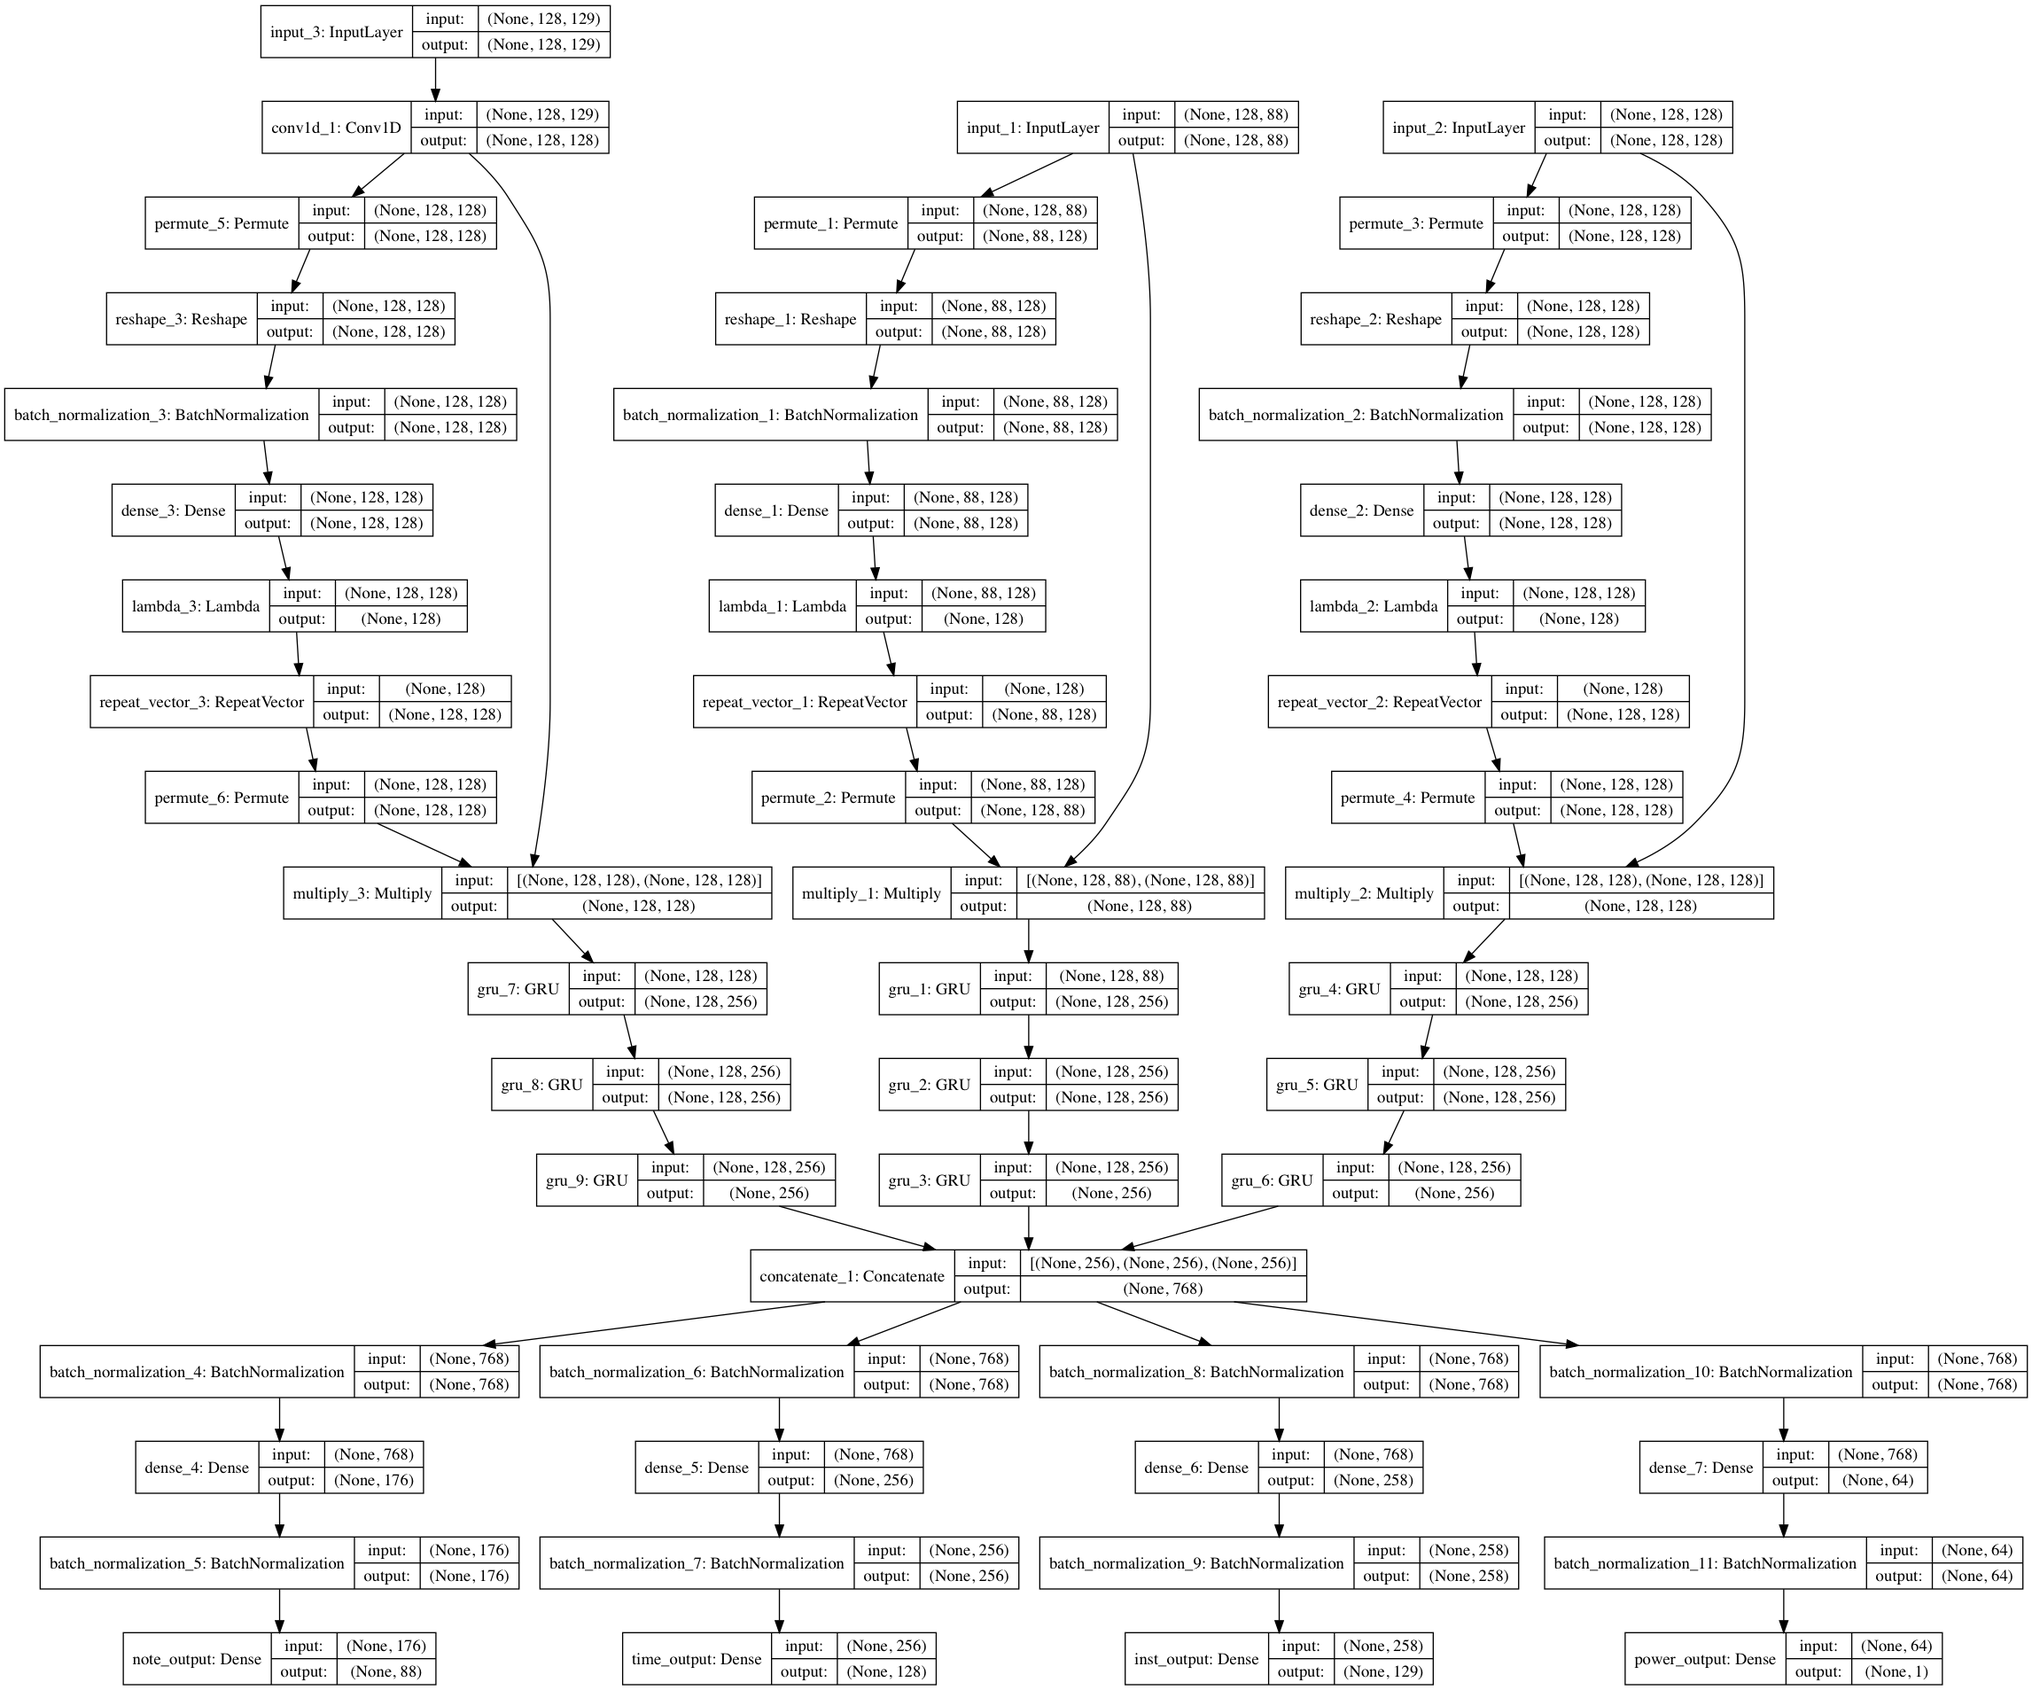
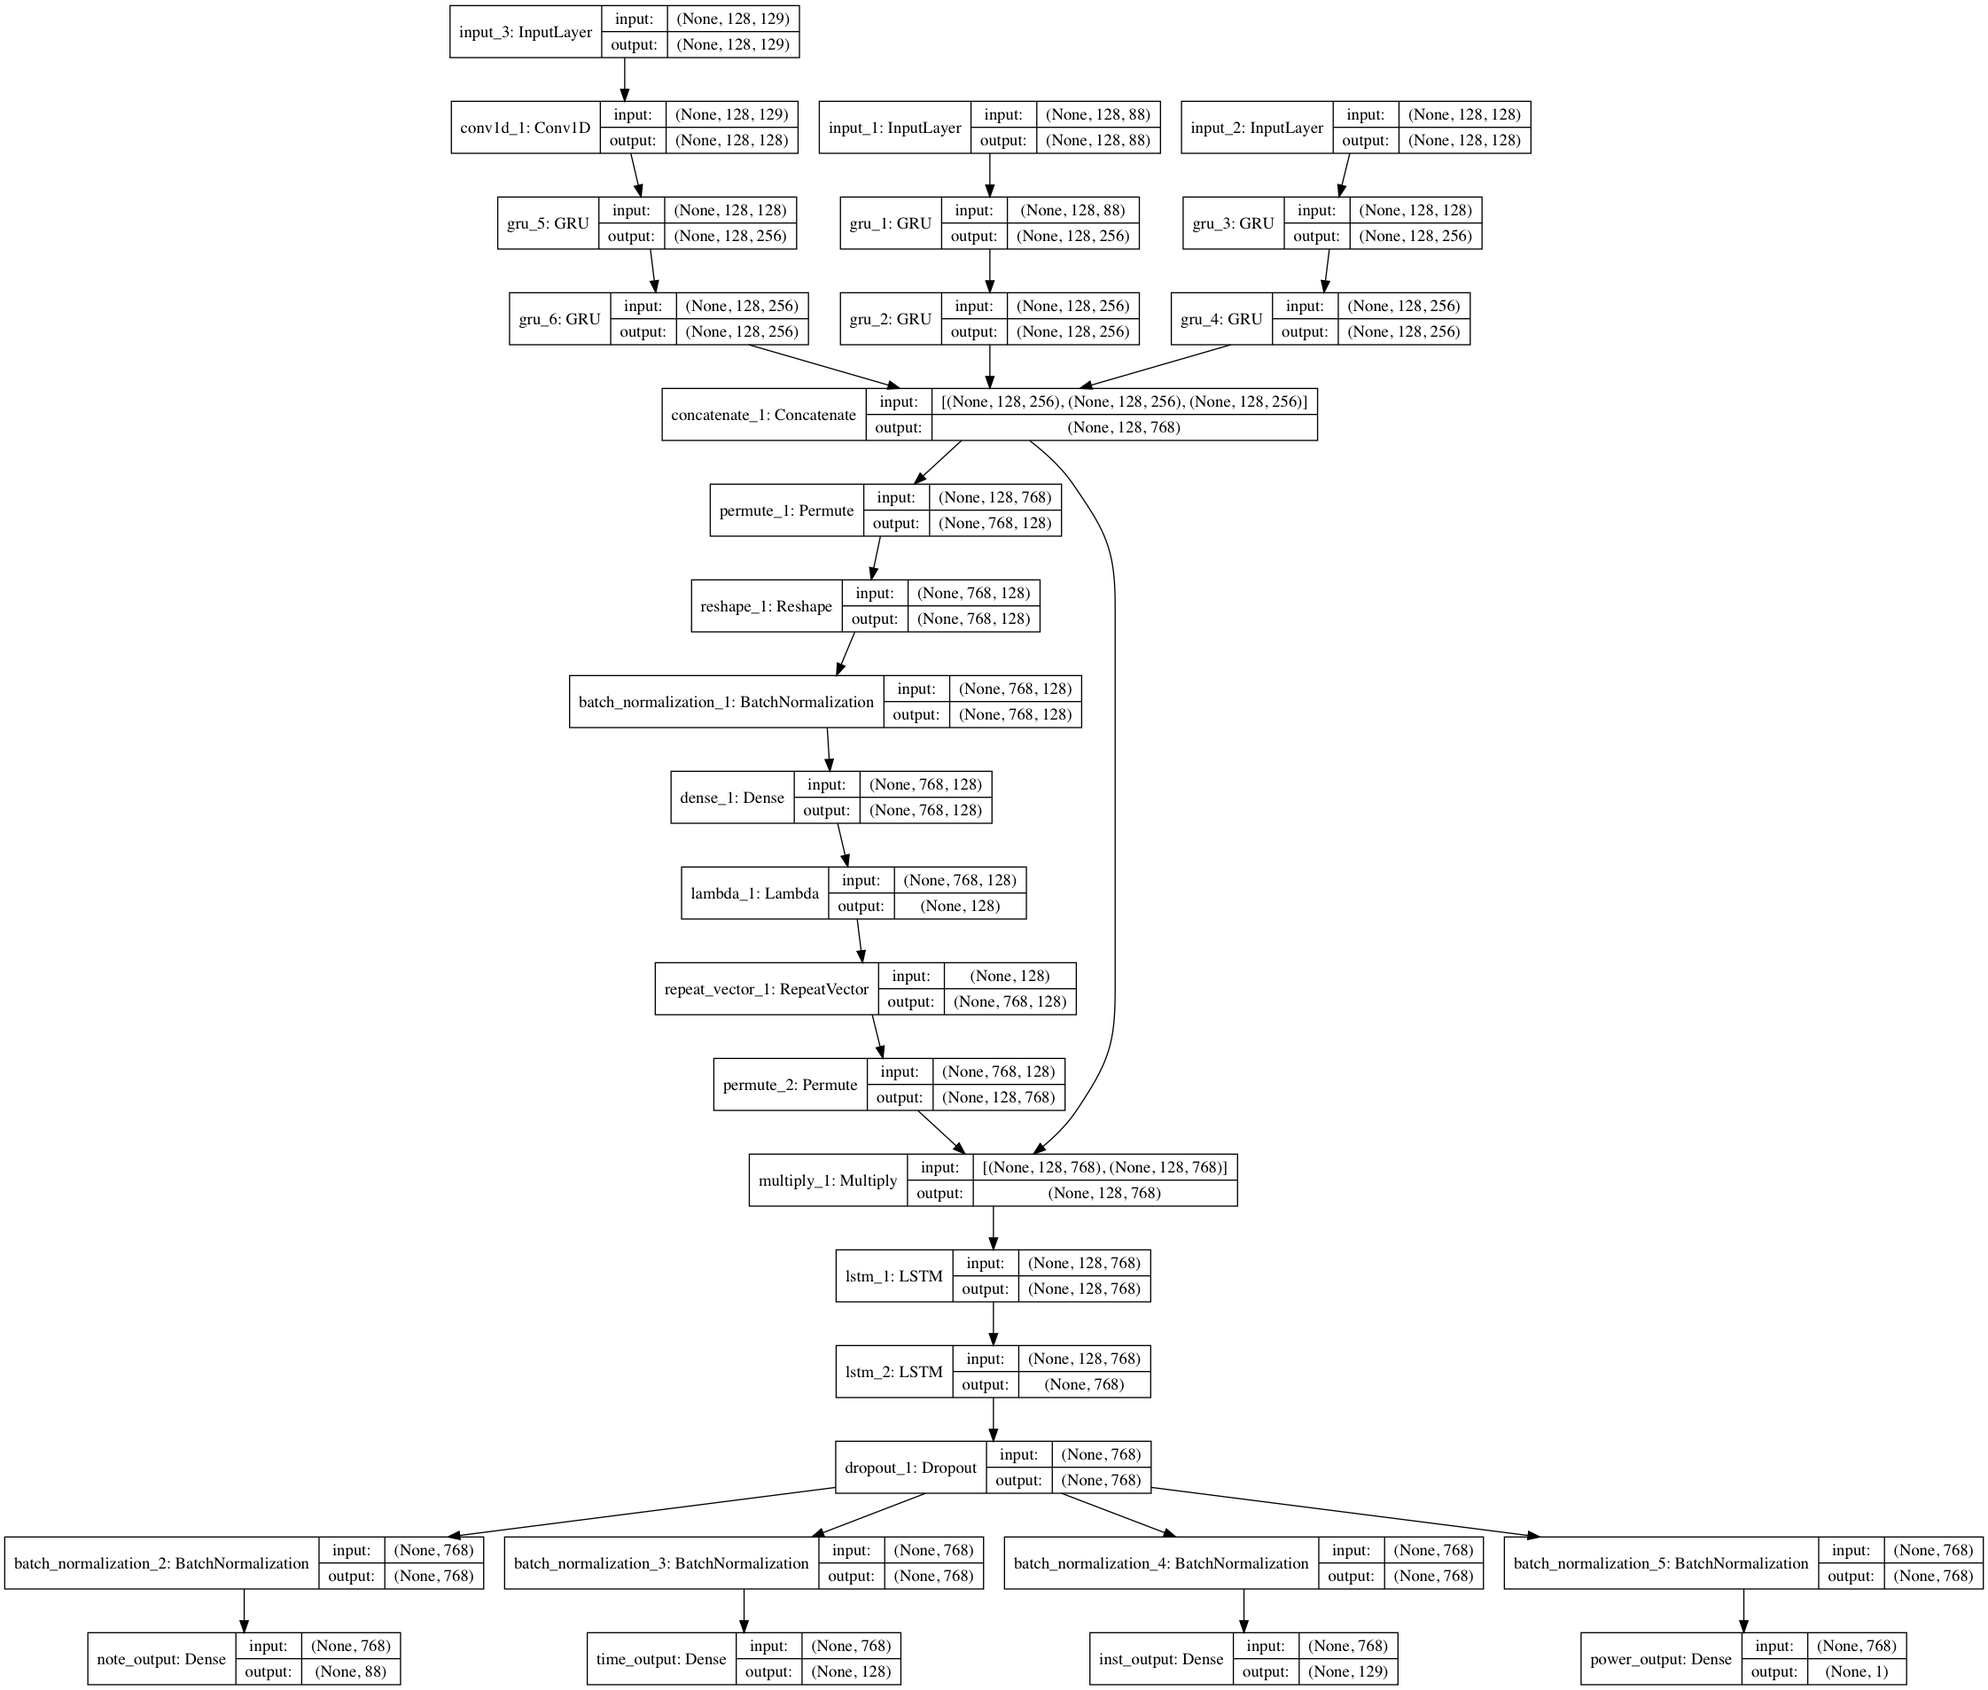
foo

diff --git a/multiple_instruments/train_dir.py b/multiple_instruments/train_dir.py
@@ -6,7 +6,7 @@ config.gpu_options.allow_growth = True
 session = tf.Session(config=config)
 from keras.models import Sequential, load_model, Model
 from keras.layers import Dense, Activation, Dropout, Input, Flatten, Conv1D
-from keras.layers import GRU, BatchNormalization, RepeatVector, TimeDistributed
+from keras.layers import LSTM, GRU, BatchNormalization, RepeatVector, TimeDistributed
 from keras.layers.merge import concatenate
 from keras.optimizers import RMSprop
 from keras.utils.io_utils import HDF5Matrix
@@ -36,7 +36,7 @@ hidden_delta=256
 hidden_note=256
 hidden_inst=256
 filter_size=128
-kernel_size=7 ## midi program changes are by groups
+kernel_size=3 ## midi program changes are by groups
 drop_rate=0.2 ## for powerful computer
 Normal=120.0
 defaultRes=256.0
@@ -225,47 +225,37 @@ def main():
     # network:
     with tf.device('/gpu:0'):
         noteInput  = Input(shape=(segLen, vecLen))
-        noteEncode = SoftAttentionBlock(noteInput, segLen, vecLen)
+        noteEncode = GRU(hidden_note, return_sequences=True, dropout=drop_rate)(noteInput)
         noteEncode = GRU(hidden_note, return_sequences=True, dropout=drop_rate)(noteEncode)
-        noteEncode = GRU(hidden_note, return_sequences=True, dropout=drop_rate)(noteEncode)
-        noteEncode = GRU(hidden_note, return_sequences=False, dropout=drop_rate)(noteEncode)
 
     with tf.device('/gpu:1'):
         deltaInput = Input(shape=(segLen, maxdelta))
-        deltaEncode = SoftAttentionBlock(deltaInput, segLen, maxdelta)
+        deltaEncode = GRU(hidden_delta, return_sequences=True, dropout=drop_rate)(deltaInput)
         deltaEncode = GRU(hidden_delta, return_sequences=True, dropout=drop_rate)(deltaEncode)
-        deltaEncode = GRU(hidden_delta, return_sequences=True, dropout=drop_rate)(deltaEncode)
-        deltaEncode = GRU(hidden_delta, return_sequences=False, dropout=drop_rate)(deltaEncode)
 
     with tf.device('/gpu:2'):
         instInput = Input(shape=(segLen, maxinst))
         instEncode   = Conv1D(filters=filter_size, kernel_size=kernel_size, padding='same', input_shape=(segLen, maxinst), activation = 'relu')(instInput)
-        instEncode   = SoftAttentionBlock(instEncode, segLen)
         instEncode   = GRU(hidden_inst, return_sequences=True, dropout=drop_rate)(instEncode)
         instEncode   = GRU(hidden_inst, return_sequences=True, dropout=drop_rate)(instEncode)
-        instEncode   = GRU(hidden_inst, return_sequences=False, dropout=drop_rate)(instEncode)
 
     with tf.device('/gpu:3'):
         codec = concatenate([noteEncode, deltaEncode, instEncode], axis=-1) ## return last state
+        codec = SoftAttentionBlock(codec, segLen, hidden_note+hidden_delta+hidden_inst, True)
+        codec = LSTM(hidden_note+hidden_delta+hidden_inst, return_sequences=True, dropout=drop_rate, activation='softsign')(codec)
+        codec = LSTM(hidden_note+hidden_delta+hidden_inst, return_sequences=False, dropout=drop_rate, activation='softsign')(codec)
+        codec = Dropout(drop_rate)(codec)
 
-        batchNormNote_0 = BatchNormalization()(codec)
-        fc_notes = Dense(vecLen*2, kernel_initializer='normal', activation='relu')(batchNormNote_0)
-        fc_notes = BatchNormalization()(fc_notes)
+        fc_notes = BatchNormalization()(codec)
         pred_notes = Dense(vecLen, kernel_initializer='normal', activation='softmax', name='note_output')(fc_notes) ## output PMF
 
-        batchNormDelta_0 = BatchNormalization()(codec)
-        fc_delta = Dense(maxdelta*2, kernel_initializer='normal', activation='relu')(batchNormDelta_0)
-        fc_delta = BatchNormalization()(fc_delta)
+        fc_delta = BatchNormalization()(codec)
         pred_delta = Dense(maxdelta, kernel_initializer='normal', activation='softmax', name='time_output')(fc_delta) ## output PMF
 
-        batchNormInst_0 = BatchNormalization()(codec)
-        fc_inst = Dense(maxinst*2, kernel_initializer='normal', activation='relu')(batchNormInst_0)
-        fc_inst = BatchNormalization()(fc_inst)
+        fc_inst = BatchNormalization()(codec)
         pred_inst = Dense(maxinst, kernel_initializer='normal', activation='softmax', name='inst_output')(fc_inst) ## output PMF
 
-        batchNormPower_0 = BatchNormalization()(codec)
-        fc_power = Dense(maxpower, kernel_initializer='normal', activation='relu')(batchNormPower_0)
-        fc_power = BatchNormalization()(fc_power)
+        fc_power = BatchNormalization()(codec)
         pred_power = Dense(1, kernel_initializer='normal', activation='relu', name='power_output')(fc_power) ## output regression >= 0
     aiComposer = Model([noteInput, deltaInput, instInput], [pred_notes, pred_delta, pred_inst, pred_power])
     checkPoint = ModelCheckpoint(filepath="weights-{epoch:04d}-{loss:.2f}-{val_loss:.2f}.h5", verbose=1, save_best_only=False, save_weights_only=True, period=3)

diff --git a/multiple_instruments/load.py b/multiple_instruments/load.py
@@ -6,7 +6,7 @@ config.gpu_options.allow_growth = True
 session = tf.Session(config=config)
 from keras.models import Sequential, load_model, Model
 from keras.layers import Dense, Activation, Dropout, Input, Flatten, Conv1D
-from keras.layers import GRU, BatchNormalization, RepeatVector, TimeDistributed
+from keras.layers import LSTM, GRU, BatchNormalization, RepeatVector, TimeDistributed
 from keras.layers.merge import concatenate
 from keras.optimizers import RMSprop
 from keras.utils.io_utils import HDF5Matrix
@@ -32,7 +32,7 @@ hidden_delta=256
 hidden_note=256
 hidden_inst=256
 filter_size=128
-kernel_size=7 ## midi program changes are by groups
+kernel_size=3 ## midi program changes are by groups
 drop_rate=0.2 ## for powerful computer
 
 K.set_floatx(compute_precision);
@@ -42,49 +42,40 @@ print('Build model...')
 # network:
 with tf.device('/gpu:0'):
     noteInput  = Input(shape=(segLen, vecLen))
-    noteEncode = SoftAttentionBlock(noteInput, segLen, vecLen)
+    noteEncode = GRU(hidden_note, return_sequences=True, dropout=drop_rate)(noteInput)
     noteEncode = GRU(hidden_note, return_sequences=True, dropout=drop_rate)(noteEncode)
-    noteEncode = GRU(hidden_note, return_sequences=True, dropout=drop_rate)(noteEncode)
-    noteEncode = GRU(hidden_note, return_sequences=False, dropout=drop_rate)(noteEncode)
 
 with tf.device('/gpu:1'):
     deltaInput = Input(shape=(segLen, maxdelta))
-    deltaEncode = SoftAttentionBlock(deltaInput, segLen, maxdelta)
+    deltaEncode = GRU(hidden_delta, return_sequences=True, dropout=drop_rate)(deltaInput)
     deltaEncode = GRU(hidden_delta, return_sequences=True, dropout=drop_rate)(deltaEncode)
-    deltaEncode = GRU(hidden_delta, return_sequences=True, dropout=drop_rate)(deltaEncode)
-    deltaEncode = GRU(hidden_delta, return_sequences=False, dropout=drop_rate)(deltaEncode)
 
 with tf.device('/gpu:2'):
     instInput = Input(shape=(segLen, maxinst))
     instEncode   = Conv1D(filters=filter_size, kernel_size=kernel_size, padding='same', input_shape=(segLen, maxinst), activation = 'relu')(instInput)
-    instEncode   = SoftAttentionBlock(instEncode, segLen)
     instEncode   = GRU(hidden_inst, return_sequences=True, dropout=drop_rate)(instEncode)
     instEncode   = GRU(hidden_inst, return_sequences=True, dropout=drop_rate)(instEncode)
-    instEncode   = GRU(hidden_inst, return_sequences=False, dropout=drop_rate)(instEncode)
 
 with tf.device('/gpu:3'):
     codec = concatenate([noteEncode, deltaEncode, instEncode], axis=-1) ## return last state
+    codec = SoftAttentionBlock(codec, segLen, hidden_note+hidden_delta+hidden_inst, True)
+    codec = LSTM(hidden_note+hidden_delta+hidden_inst, return_sequences=True, dropout=drop_rate, activation='softsign')(codec)
+    codec = LSTM(hidden_note+hidden_delta+hidden_inst, return_sequences=False, dropout=drop_rate, activation='softsign')(codec)
+    codec = Dropout(drop_rate)(codec)
 
-    batchNormNote_0 = BatchNormalization()(codec)
-    fc_notes = Dense(vecLen*2, kernel_initializer='normal', activation='relu')(batchNormNote_0)
-    fc_notes = BatchNormalization()(fc_notes)
+    fc_notes = BatchNormalization()(codec)
     pred_notes = Dense(vecLen, kernel_initializer='normal', activation='softmax', name='note_output')(fc_notes) ## output PMF
 
-    batchNormDelta_0 = BatchNormalization()(codec)
-    fc_delta = Dense(maxdelta*2, kernel_initializer='normal', activation='relu')(batchNormDelta_0)
-    fc_delta = BatchNormalization()(fc_delta)
+    fc_delta = BatchNormalization()(codec)
     pred_delta = Dense(maxdelta, kernel_initializer='normal', activation='softmax', name='time_output')(fc_delta) ## output PMF
 
-    batchNormInst_0 = BatchNormalization()(codec)
-    fc_inst = Dense(maxinst*2, kernel_initializer='normal', activation='relu')(batchNormInst_0)
-    fc_inst = BatchNormalization()(fc_inst)
+    fc_inst = BatchNormalization()(codec)
     pred_inst = Dense(maxinst, kernel_initializer='normal', activation='softmax', name='inst_output')(fc_inst) ## output PMF
 
-    batchNormPower_0 = BatchNormalization()(codec)
-    fc_power = Dense(maxpower, kernel_initializer='normal', activation='relu')(batchNormPower_0)
-    fc_power = BatchNormalization()(fc_power)
+    fc_power = BatchNormalization()(codec)
     pred_power = Dense(1, kernel_initializer='normal', activation='relu', name='power_output')(fc_power) ## output regression >= 0
 aiComposer = Model([noteInput, deltaInput, instInput], [pred_notes, pred_delta, pred_inst, pred_power])
 if ( os.path.isfile('./top_weight.h5')):  ## fine-tuning
     aiComposer.load_weights('./top_weight.h5')
 aiComposer.save('./multi.h5')
+

diff --git a/multiple_instruments/summary.py b/multiple_instruments/summary.py
@@ -6,7 +6,7 @@ config.gpu_options.allow_growth = True
 session = tf.Session(config=config)
 from keras.models import Sequential, load_model, Model
 from keras.layers import Dense, Activation, Dropout, Input, Flatten, Conv1D
-from keras.layers import GRU, BatchNormalization, RepeatVector, TimeDistributed
+from keras.layers import LSTM, GRU, BatchNormalization, RepeatVector, TimeDistributed
 from keras.layers.merge import concatenate
 from keras.optimizers import RMSprop
 from keras.utils.io_utils import HDF5Matrix
@@ -32,7 +32,7 @@ hidden_delta=256
 hidden_note=256
 hidden_inst=256
 filter_size=128
-kernel_size=7 ## midi program changes are by groups
+kernel_size=3 ## midi program changes are by groups
 drop_rate=0.2 ## for powerful computer
 
 K.set_floatx(compute_precision);
@@ -42,47 +42,37 @@ print('Build model...')
 # network:
 with tf.device('/gpu:0'):
     noteInput  = Input(shape=(segLen, vecLen))
-    noteEncode = SoftAttentionBlock(noteInput, segLen, vecLen)
+    noteEncode = GRU(hidden_note, return_sequences=True, dropout=drop_rate)(noteInput)
     noteEncode = GRU(hidden_note, return_sequences=True, dropout=drop_rate)(noteEncode)
-    noteEncode = GRU(hidden_note, return_sequences=True, dropout=drop_rate)(noteEncode)
-    noteEncode = GRU(hidden_note, return_sequences=False, dropout=drop_rate)(noteEncode)
 
 with tf.device('/gpu:1'):
     deltaInput = Input(shape=(segLen, maxdelta))
-    deltaEncode = SoftAttentionBlock(deltaInput, segLen, maxdelta)
+    deltaEncode = GRU(hidden_delta, return_sequences=True, dropout=drop_rate)(deltaInput)
     deltaEncode = GRU(hidden_delta, return_sequences=True, dropout=drop_rate)(deltaEncode)
-    deltaEncode = GRU(hidden_delta, return_sequences=True, dropout=drop_rate)(deltaEncode)
-    deltaEncode = GRU(hidden_delta, return_sequences=False, dropout=drop_rate)(deltaEncode)
 
 with tf.device('/gpu:2'):
     instInput = Input(shape=(segLen, maxinst))
     instEncode   = Conv1D(filters=filter_size, kernel_size=kernel_size, padding='same', input_shape=(segLen, maxinst), activation = 'relu')(instInput)
-    instEncode   = SoftAttentionBlock(instEncode, segLen)
     instEncode   = GRU(hidden_inst, return_sequences=True, dropout=drop_rate)(instEncode)
     instEncode   = GRU(hidden_inst, return_sequences=True, dropout=drop_rate)(instEncode)
-    instEncode   = GRU(hidden_inst, return_sequences=False, dropout=drop_rate)(instEncode)
 
 with tf.device('/gpu:3'):
     codec = concatenate([noteEncode, deltaEncode, instEncode], axis=-1) ## return last state
+    codec = SoftAttentionBlock(codec, segLen, hidden_note+hidden_delta+hidden_inst, True)
+    codec = LSTM(hidden_note+hidden_delta+hidden_inst, return_sequences=True, dropout=drop_rate, activation='softsign')(codec)
+    codec = LSTM(hidden_note+hidden_delta+hidden_inst, return_sequences=False, dropout=drop_rate, activation='softsign')(codec)
+    codec = Dropout(drop_rate)(codec)
 
-    batchNormNote_0 = BatchNormalization()(codec)
-    fc_notes = Dense(vecLen*2, kernel_initializer='normal', activation='relu')(batchNormNote_0)
-    fc_notes = BatchNormalization()(fc_notes)
+    fc_notes = BatchNormalization()(codec)
     pred_notes = Dense(vecLen, kernel_initializer='normal', activation='softmax', name='note_output')(fc_notes) ## output PMF
 
-    batchNormDelta_0 = BatchNormalization()(codec)
-    fc_delta = Dense(maxdelta*2, kernel_initializer='normal', activation='relu')(batchNormDelta_0)
-    fc_delta = BatchNormalization()(fc_delta)
+    fc_delta = BatchNormalization()(codec)
     pred_delta = Dense(maxdelta, kernel_initializer='normal', activation='softmax', name='time_output')(fc_delta) ## output PMF
 
-    batchNormInst_0 = BatchNormalization()(codec)
-    fc_inst = Dense(maxinst*2, kernel_initializer='normal', activation='relu')(batchNormInst_0)
-    fc_inst = BatchNormalization()(fc_inst)
+    fc_inst = BatchNormalization()(codec)
     pred_inst = Dense(maxinst, kernel_initializer='normal', activation='softmax', name='inst_output')(fc_inst) ## output PMF
 
-    batchNormPower_0 = BatchNormalization()(codec)
-    fc_power = Dense(maxpower, kernel_initializer='normal', activation='relu')(batchNormPower_0)
-    fc_power = BatchNormalization()(fc_power)
+    fc_power = BatchNormalization()(codec)
     pred_power = Dense(1, kernel_initializer='normal', activation='relu', name='power_output')(fc_power) ## output regression >= 0
 aiComposer = Model([noteInput, deltaInput, instInput], [pred_notes, pred_delta, pred_inst, pred_power])
 aiComposer.summary()
